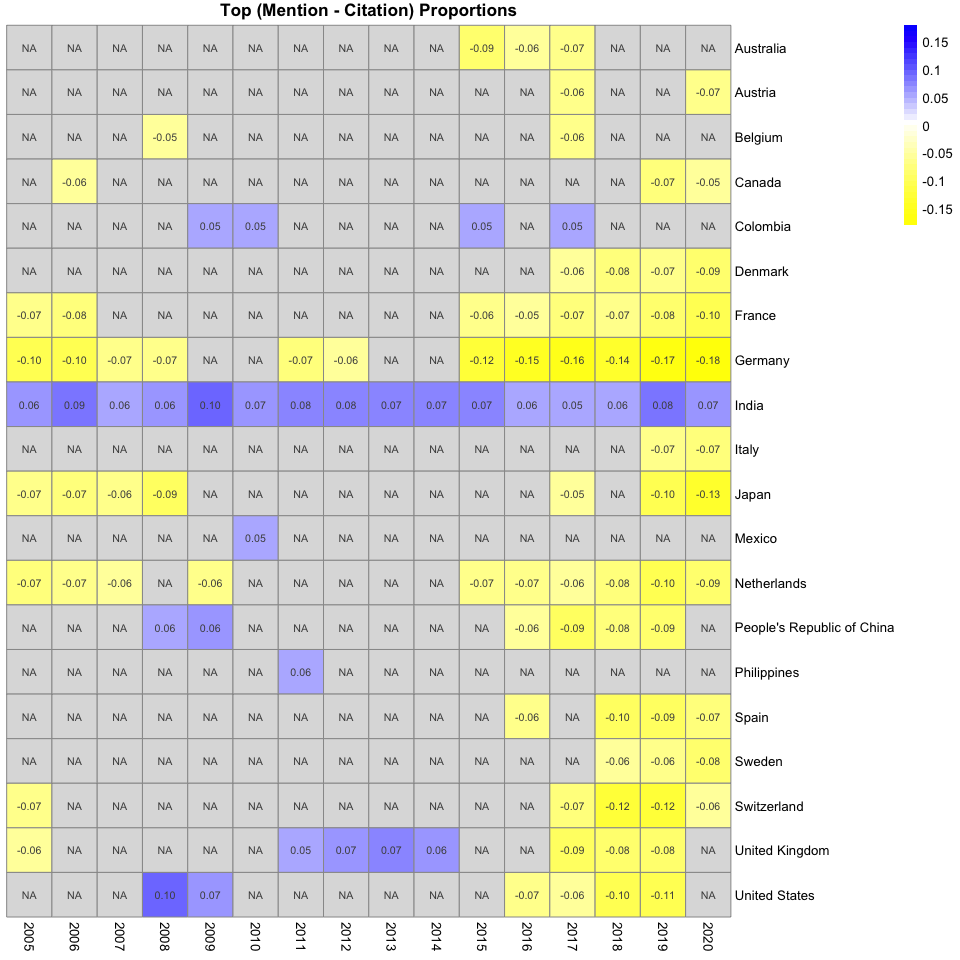
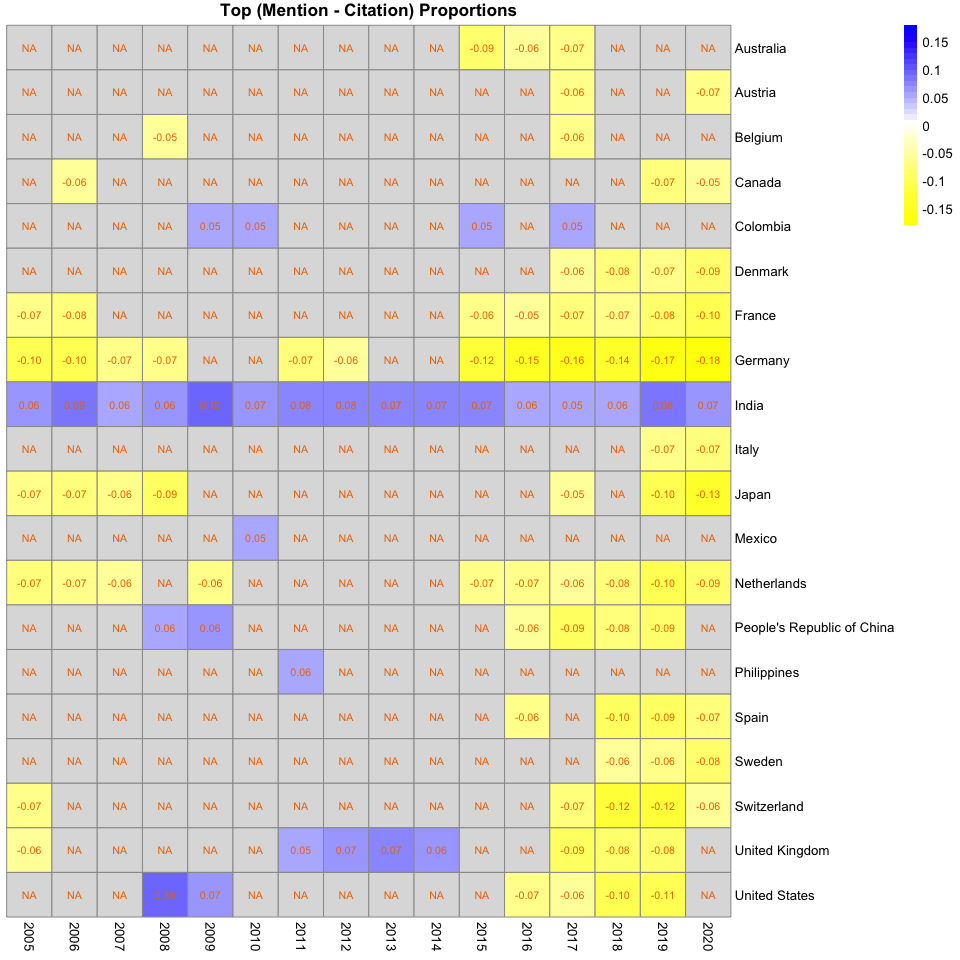
changed heatmap text to orange for better readibility

diff --git a/analysis_scripts/analyze_mention_v_citation/mention_v_citation.md b/analysis_scripts/analyze_mention_v_citation/mention_v_citation.md
@@ -207,7 +207,8 @@ res_MC = make_heatmap_res(top_diff_MC, value_col="M_C")
 pheatmap(res_MC$plot_matr, cluster_rows = F, 
          cluster_cols = F, display_numbers = T, 
          main = "Top (Mention - Citation) Proportions",
-         color = res_MC$color_pmap, breaks = res_MC$breaks)
+         color = res_MC$color_pmap, breaks = res_MC$breaks,
+         number_color = "darkorange2")
 ```
 
 <img src="mention_v_citation_files/figure-markdown_github/plot_filtered_countries-1.png" style="display: block; margin: auto;" />
@@ -218,7 +219,8 @@ res_cite = make_heatmap_res(top_diff_MC, value_col="tot_citations")
 pheatmap(res_cite$plot_matr, cluster_rows = F, 
          cluster_cols = F, display_numbers = T, 
          main = "Top (Mention - Citation), total citations",
-         color = res_cite$color_pmap, breaks = res_cite$breaks)
+         color = res_cite$color_pmap, breaks = res_cite$breaks,
+         number_color = "darkorange2")
 ```
 
 <img src="mention_v_citation_files/figure-markdown_github/plot_filtered_countries-2.png" style="display: block; margin: auto;" />
@@ -229,7 +231,8 @@ res_mention = make_heatmap_res(top_diff_MC, value_col="tot_mentions")
 pheatmap(res_mention$plot_matr, cluster_rows = F, 
          cluster_cols = F, display_numbers = T, 
          main = "Top (Mention - Citation), total mentions",
-         color = res_mention$color_pmap, breaks = res_mention$breaks)
+         color = res_mention$color_pmap, breaks = res_mention$breaks,
+         number_color = "darkorange2")
 ```
 
 <img src="mention_v_citation_files/figure-markdown_github/plot_filtered_countries-3.png" style="display: block; margin: auto;" />
